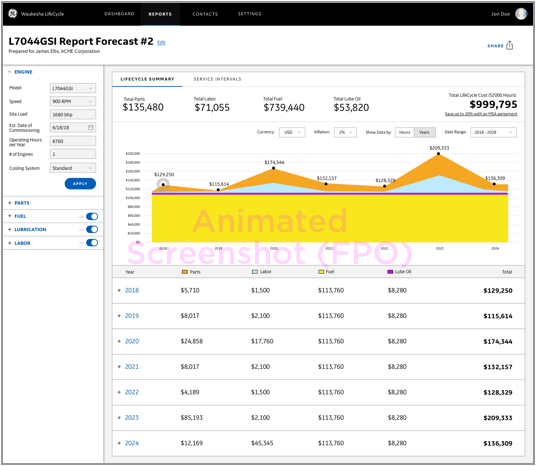
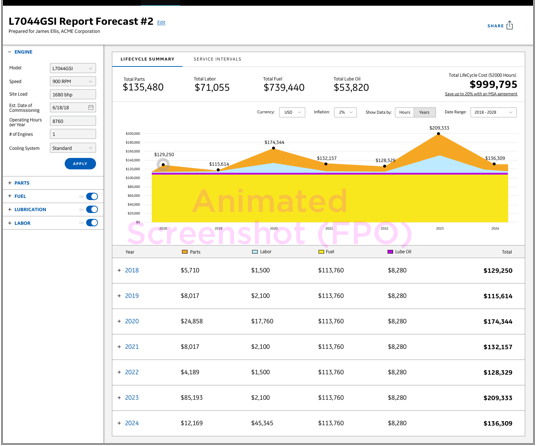
Kill branding and add gh pages deploy script.

diff --git a/src/index.html b/src/index.html
@@ -2,7 +2,7 @@
 <html lang="en">
   <head>
     <meta charset="utf-8">
-    <title>Waukesha LifeCycle</title>
+    <title>Angular5 Demo</title>
     <base href="/">
 
     <meta name="viewport" content="width=device-width, initial-scale=1">

diff --git a/src/styles.scss b/src/styles.scss
@@ -142,6 +142,10 @@ $inuit-enable-validation-states : true;
   }
 }
 
+.px-ge-svg-logo-0 svg.px-ge-svg-logo {
+  display: none;
+}
+
 
 // Import predix styles
 @import "px-spacing-design/_trumps.spacing.scss";
